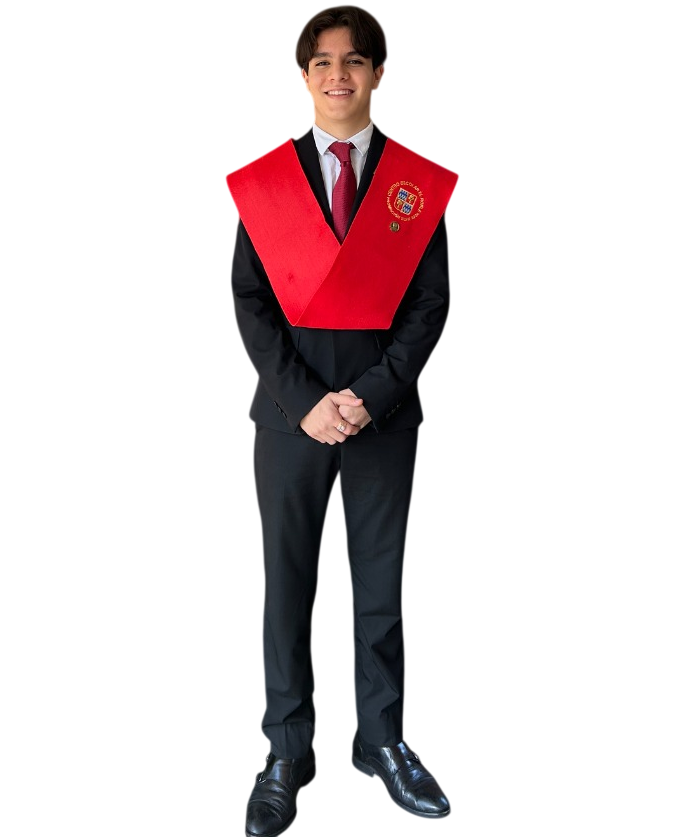
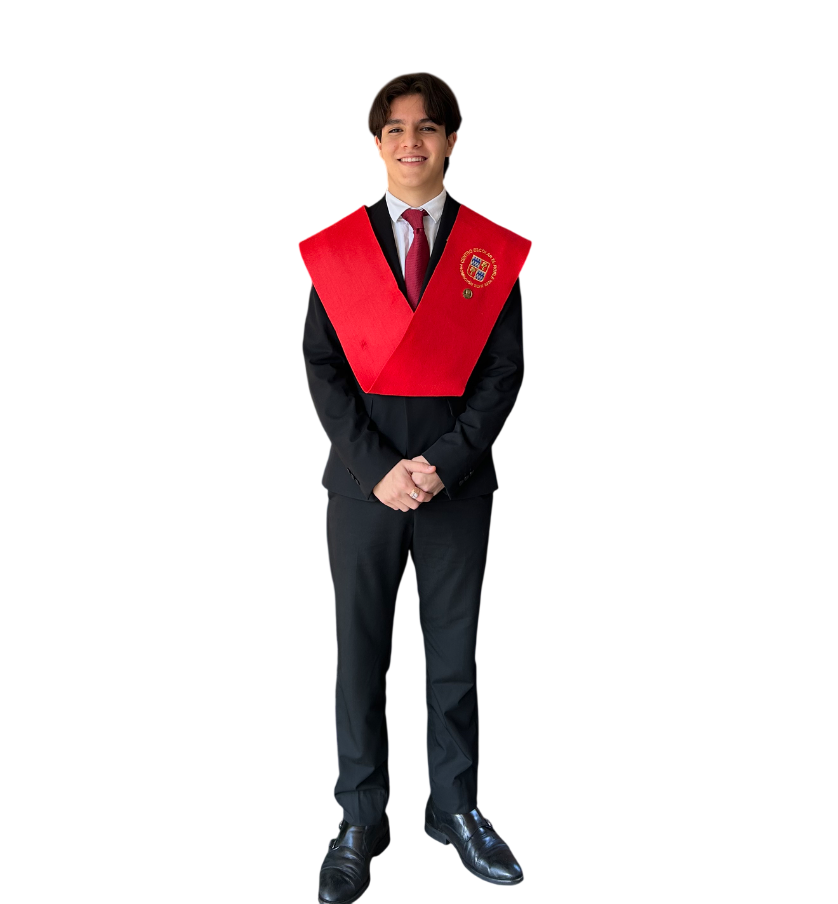
Last Commit
This commit has the button with a link of download from canva on pdf.

Changed region(s): [[0.3377, 0.0, 0.6754, 1.0]]

diff --git a/cv.html b/cv.html
@@ -7,15 +7,18 @@
     <link href="https://cdn.jsdelivr.net/npm/bootstrap@5.3.2/dist/css/bootstrap.min.css" rel="stylesheet">
 
     <style>
-        .bg-crema { background-color: #ffe5be; }
-        .bg-gris  { background-color: #f2f2f2; }
-        .bg-azul  { background-color: #e8f1ff; }
+        .bg-crema { background-color: #9eb4bc; }
+        .bg-gris  { background-color: #dbe3e6; }
+        .bg-azul  { background-color: #e6dfd6; }
+        .bg-fondo  { background-color: #f0dec1; }
+        .bg-footer  { background-color: #bfa08a; }
+        .bg-botones  { background-color: #e9d1bf; }
     </style>
 
 </head>
 
 <body>
-    <div class="container mt-4 ">
+    <div class="container mt-4 bg-fondo p-4">
         <div id="Seccion Numero 1" class="row bg-crema p-4 rounded mb-4">
             <div  class="col-md-8">
                 <header>
@@ -101,11 +104,13 @@
                     </table>
             </div>
         </div>
-        <div class="row bg-light p-4 rounded mb-4">
+        <div class="row bg-footer p-4 rounded mb-4">
             <div class="col text-center">
-                <a class="btn btn-light" href="mailto:miguecuvas@ufm.edu" class="me-3">Contactame</a>
-                <a class="btn btn-light" href="https://github.com/MiguelCuevasss" class="me-3" target="_blank">GitHub</a>
-                <a class="btn btn-light" href="https://linkedin.com" target="_blank">LinkedIn</a>
+                <a class="btn bg-botones" href="mailto:miguecuvas@ufm.edu" class="me-3">Contactame</a>
+                <a class="btn bg-botones" href="https://github.com/MiguelCuevasss" class="me-3" target="_blank">GitHub</a>
+                <a class="btn bg-botones" href="https://linkedin.com" target="_blank">LinkedIn</a>
+                <a class="btn bg-botones" href="https://export-download.canva.com/i892Y/DAG_7ci892Y/2/0-7867155149991129942.pdf?X-Amz-Algorithm=AWS4-HMAC-SHA256&X-Amz-Credential=AKIAQYCGKMUH5AO7UJ26%2F20260130%2Fus-east-1%2Fs3%2Faws4_request&X-Amz-Date=20260130T054746Z&X-Amz-Expires=58893&X-Amz-Signature=9cf8a501aaf908a9505579033310c191b78a72f129410a5366d75f6180ba6d6e&X-Amz-SignedHeaders=host&response-content-disposition=attachment%3B%20filename%2A%3DUTF-8%27%27Dise%25C3%25B1o%2520sin%2520t%25C3%25ADtulo.pdf&response-expires=Fri%2C%2030%20Jan%202026%2022%3A09%3A19%20GMT" target="_blank">Descargar PDF</a>
+                
             </div>
         </div>
     </div>
